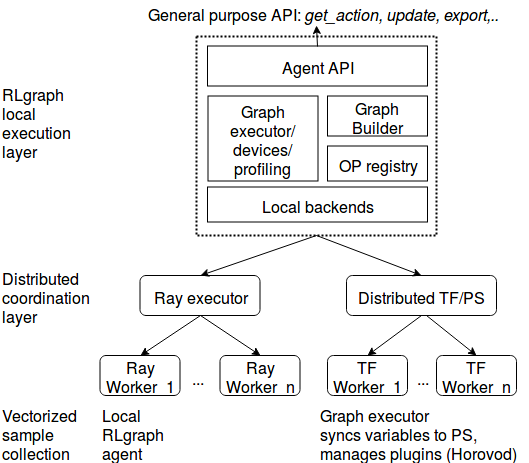
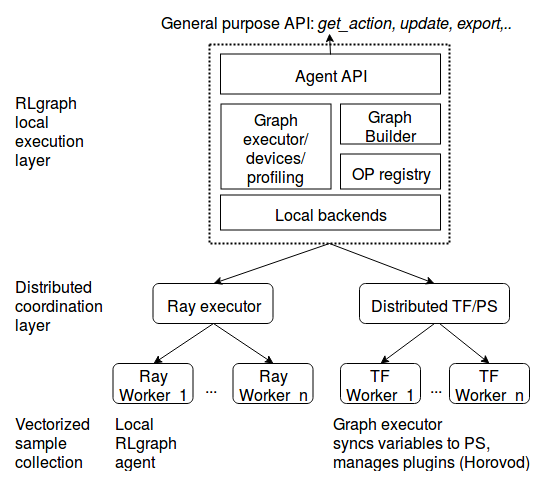
updated figures and layout

diff --git a/_layouts/default.html b/_layouts/default.html
@@ -9,6 +9,8 @@
     
     <style>
     h1 a { color: #ffffff; }
+    #main_content.inner img { display: block; margin: 0 auto; }
+    .inner { max-width: 800px; }
     </style>
 
 {% seo %}
